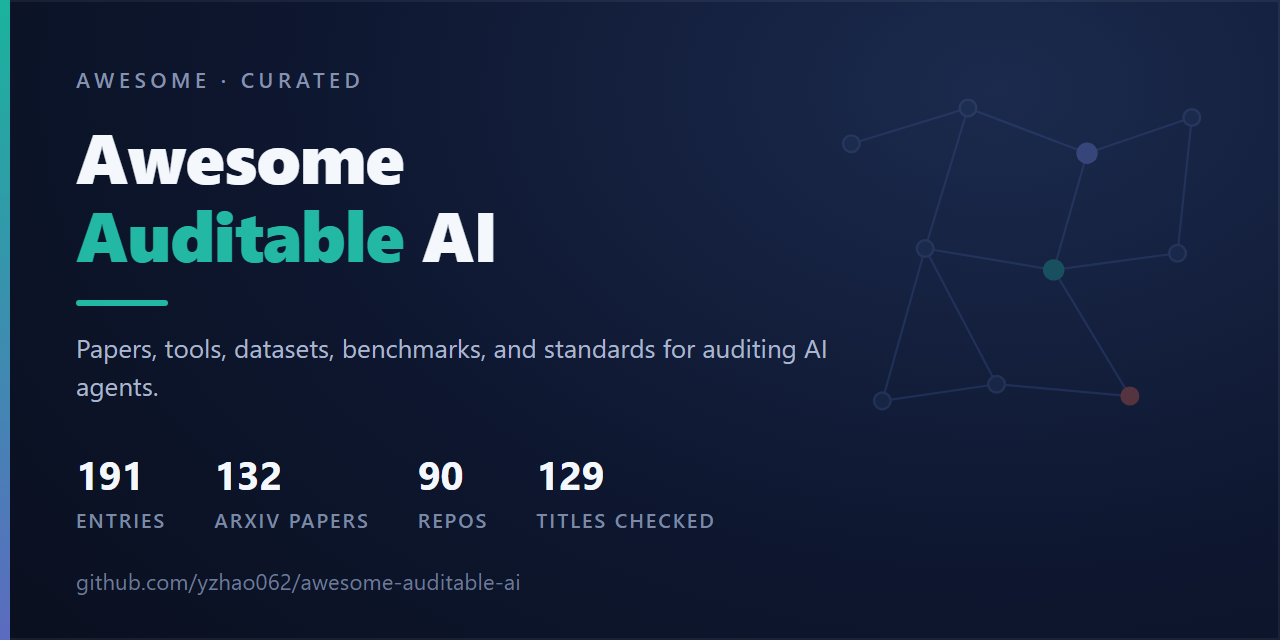
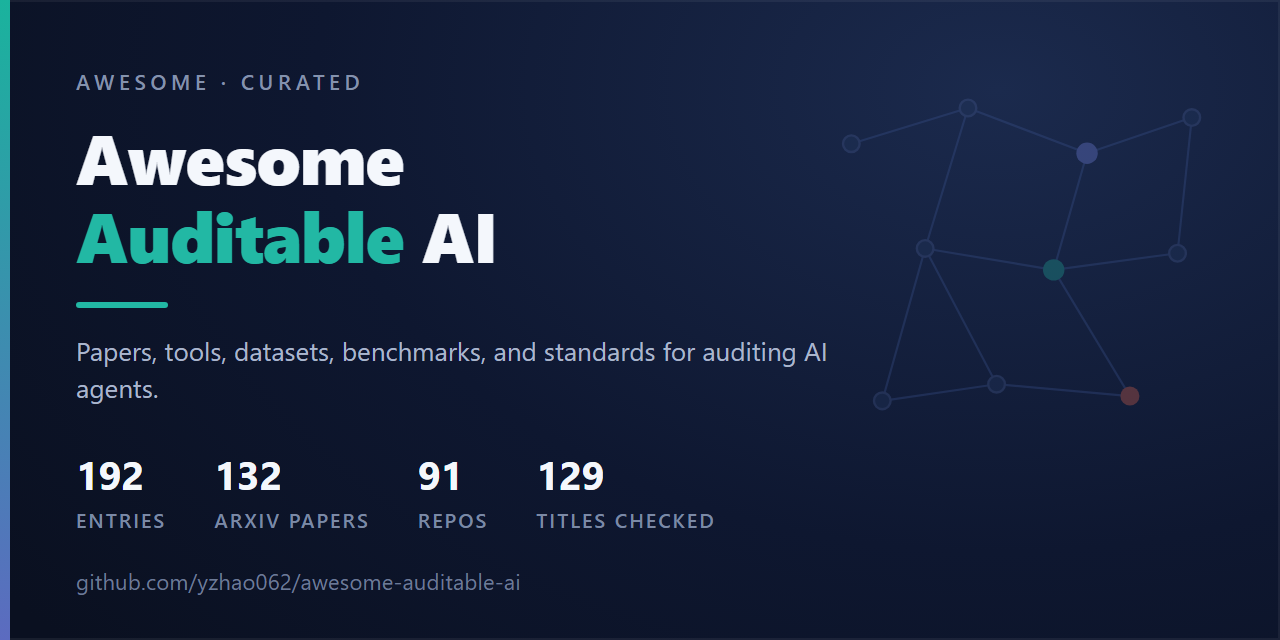
Tools: add OrcaReplay
Records a coding-agent run below the harness, placing model calls, per-turn workspace changes, and opt-in MCP frames on one timeline, then re-executes the agent against the recorded model responses or forks the run from a filesystem checkpoint onto a different model.

Submitted by @xizhuomengcontin in #21. Two claims narrowed in the follow-up recount commit: replay no longer described as running with the network off, because strict replay serves recorded model responses while the agent and its subprocesses still execute and can reach the network, as the project's own documentation states; and shell exit codes dropped, because their capture depends on the harness going through the tool's PATH shim. The submitted hero and social-card edits are superseded by the recount over all merged entries.

Claude-Session: https://claude.ai/code/session_01KaaBdzLgzH3B3XU3reQ1BL

diff --git a/assets/social-card.html b/assets/social-card.html
@@ -71,9 +71,9 @@
     <div class="tag">Papers, tools, datasets, benchmarks, and standards for auditing AI agents.</div>
 
     <div class="stats">
-      <div class="stat"><div class="n">191</div><div class="l">Entries</div></div>
+      <div class="stat"><div class="n">192</div><div class="l">Entries</div></div>
       <div class="stat"><div class="n">132</div><div class="l">arXiv papers</div></div>
-      <div class="stat"><div class="n">90</div><div class="l">Repos</div></div>
+      <div class="stat"><div class="n">91</div><div class="l">Repos</div></div>
       <div class="stat"><div class="n">129</div><div class="l">Titles checked</div></div>
     </div>
   </div>

diff --git a/README.md b/README.md
@@ -22,9 +22,9 @@
 
 **Agent capability is rising much faster than agent reliability.** *Towards a Science of AI Agent Reliability* (ICML 2026) decomposes reliability into twelve metrics over fifteen models and finds that recent capability gains produced only small reliability gains. The cost of that gap shows up after a run rather than during it: in the original Who&When study (ICML 2025), the strongest of the three attribution methods released with the benchmark identified the responsible agent in 53.5% of 184 annotated failure tasks, drawn from logs of 127 LLM multi-agent systems, and the decisive error step in 14.2%. Later systems in this list, including AgenTracer (ICLR 2026), report gains on that benchmark. What narrows the gap is the quality of the record. TraceElephant (ACL 2026) reports that full execution traces raised step-level attribution accuracy from 17% to 30% in its static-agentic setting, a 76% relative gain over output-only traces.
 
-This list maps the work on that problem: **191 entries across nine sections**, covering 132 unique arXiv papers, 90 GitHub repositories, 16 standards, and one framework. Five papers are deliberately cross-listed, appearing once in a topical section and once as a dataset.
+This list maps the work on that problem: **192 entries across nine sections**, covering 132 unique arXiv papers, 91 GitHub repositories, 16 standards, and one framework. Five papers are deliberately cross-listed, appearing once in a topical section and once as a dataset.
 
-Two properties make the list checkable. Every paper row carries a venue field, so of the 134 table rows, 69 name a publication venue and 65 are marked Preprint; a reader can see the evidence level of a row without opening it. Naming a venue is not the same as peer review, and the field records what the venue is rather than grading it: a non-archival workshop and a main-conference track both appear as what they are. And the citation check goes past asking whether a link responds: each arXiv entry's title is compared with the title the arXiv page itself reports, and only an exact match counts. A near-identical title is not treated as agreement, because that is precisely what a link to the wrong paper in a series looks like; "Part I" against "Part II" scores 0.995 on similarity. The 2026-08-23 run compared 129 entry titles and 132 identifiers across 265 destinations and found no disagreements. It names every destination that refuses automated clients rather than quietly counting it as passing. That run is also what caught a dataset repository going 404 three days after it last resolved. The four destinations it does not audit are this repository's own badges and the pages behind them, and the report names those too.
+Two properties make the list checkable. Every paper row carries a venue field, so of the 134 table rows, 69 name a publication venue and 65 are marked Preprint; a reader can see the evidence level of a row without opening it. Naming a venue is not the same as peer review, and the field records what the venue is rather than grading it: a non-archival workshop and a main-conference track both appear as what they are. And the citation check goes past asking whether a link responds: each arXiv entry's title is compared with the title the arXiv page itself reports, and only an exact match counts. A near-identical title is not treated as agreement, because that is precisely what a link to the wrong paper in a series looks like; "Part I" against "Part II" scores 0.995 on similarity. The 2026-08-23 run compared 129 entry titles and 132 identifiers across 266 destinations and found no disagreements. It names every destination that refuses automated clients rather than quietly counting it as passing. That run is also what caught a dataset repository going 404 three days after it last resolved. The four destinations it does not audit are this repository's own badges and the pages behind them, and the report names those too.
 
 Regenerate the report with [`tools/check_links.py`](tools/check_links.py), recount the list with [`tools/inventory.py`](tools/inventory.py), and read the result in [`LINK-AUDIT.md`](LINK-AUDIT.md). The ways this audit could report a false pass are kept as tests in [`tools/test_check_links.py`](tools/test_check_links.py), which runs on every pull request along with the audit itself.
 
@@ -470,6 +470,8 @@ Tools and platforms for agent observability, evaluation, and reliability. An ins
 **\[JavaScript\] Awesome Agentic Engineering** ([lindixu6-hash/awesome-agentic-engineering](https://github.com/lindixu6-hash/awesome-agentic-engineering)): GitHub Action and CLI that scores an agent specification against risk-tiered profiles, fails a release on unresolved blockers, and runs eight prompt-injection fixtures through LangGraph and OpenAI Agents adapters that retain node-linked traces and machine-readable results. MIT-licensed, 2026-present.
 
 **\[Python\] AgentCheck** ([WaseemGhanem98/AgentCheck](https://github.com/WaseemGhanem98/AgentCheck)): open-source behavioral testing tool for tool-using AI agents that simulates declared tool execution while evaluating tool calls, failures, retries, confirmations, destructive actions, action sequencing, and fabricated success, with integrations for OpenAI Agents SDK, PydanticAI, and custom Python agents. Apache-2.0, 2026-present.
+
+**\[TypeScript\] OrcaReplay** ([Continuum-AI-Corp/OrcaReplay](https://github.com/Continuum-AI-Corp/OrcaReplay)): records a coding-agent run below the harness, putting model calls, shell exit codes, per-turn file changes and MCP frames on one timeline, then replays that run offline against the recording with the network off, or forks it from a checkpoint onto a different model to compare. Apache-2.0, 2026-present.
 
 ---
 
